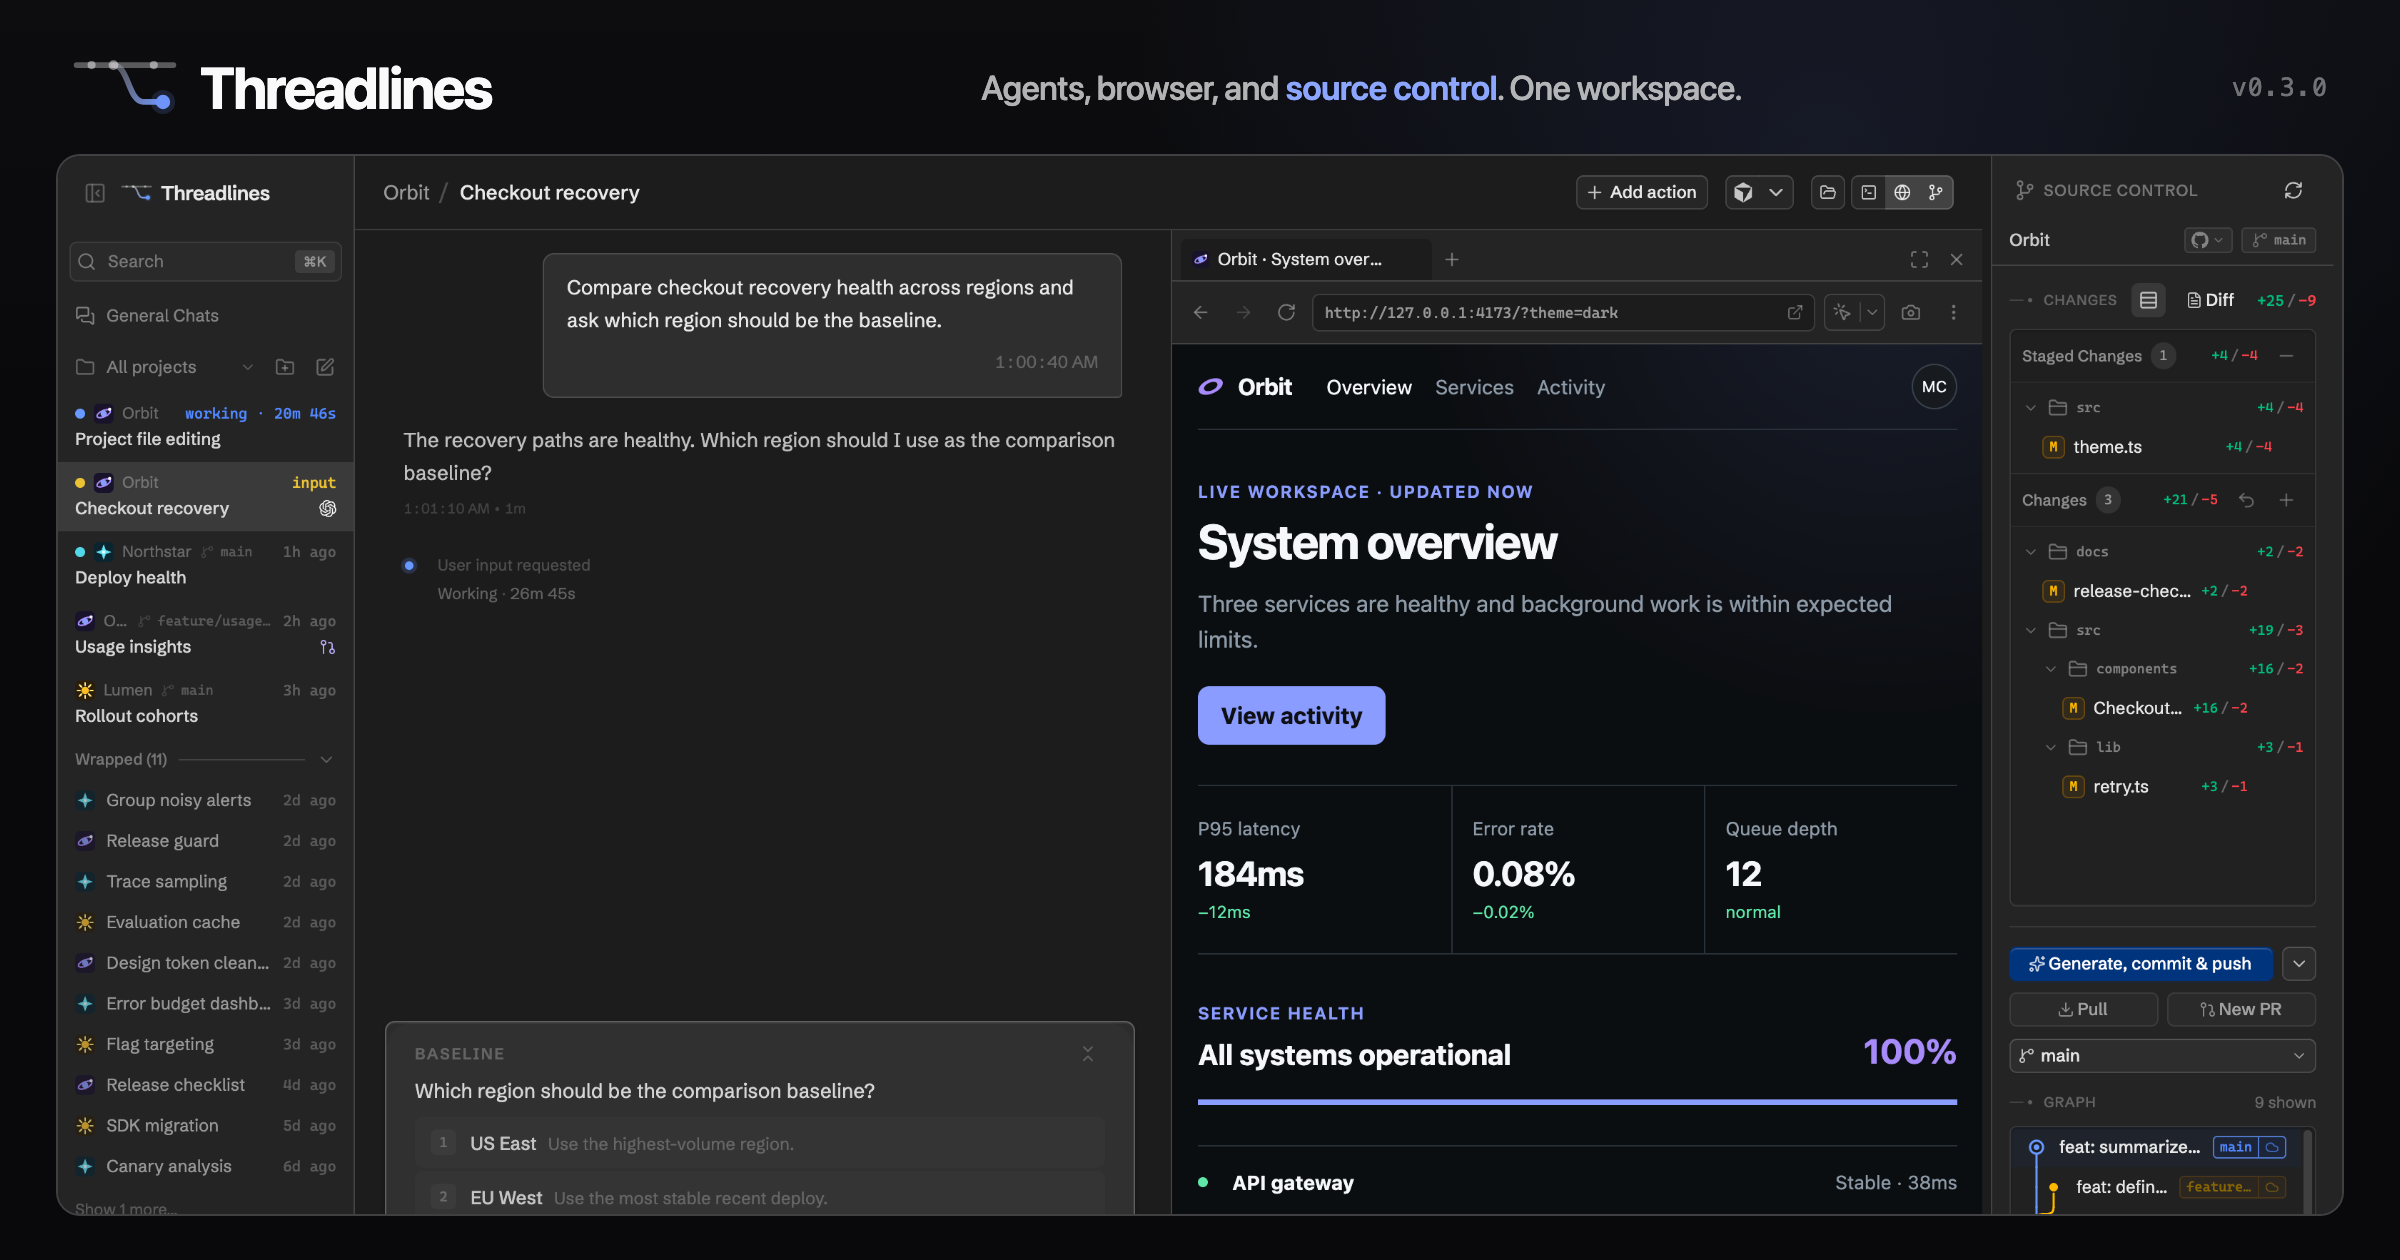
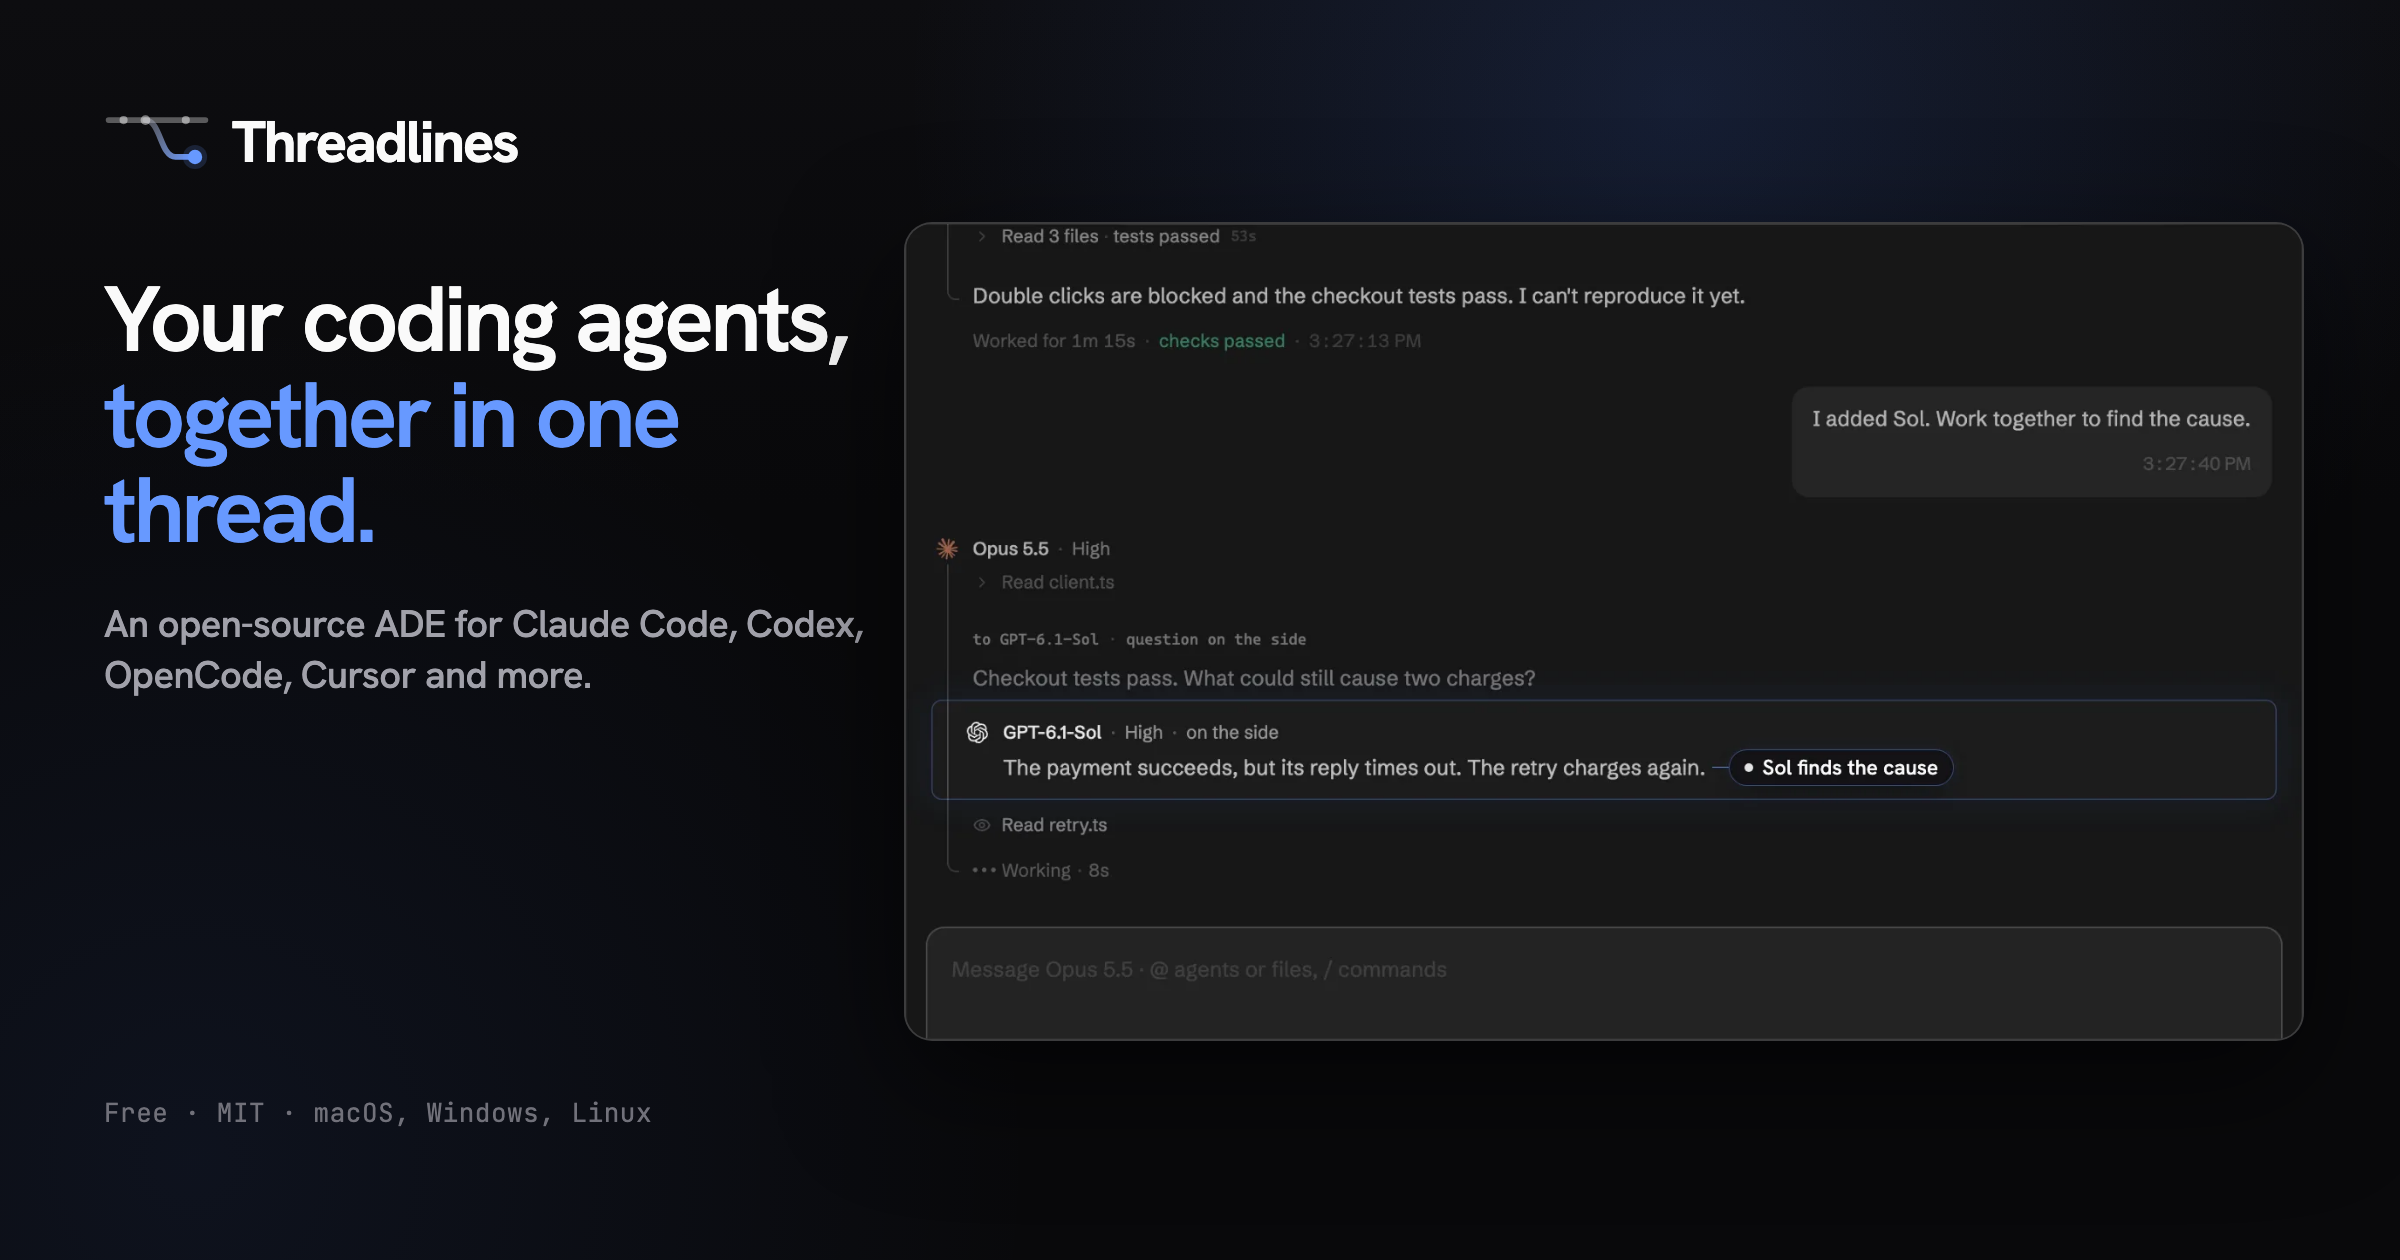
docs: refresh the README and the social image (#509)
* docs: refresh the README and the social image

The README's header image and the site's share card were still the v0.3.0
picture with the old tagline, and the README undersold what Threadlines
does now (it led with the browser and said it switches between Codex and
Claude Code only).

- New og.png from docs/brand/social/og-card.html: the current tagline,
  "An open-source ADE for Claude Code, Codex, OpenCode, Cursor and more",
  and the homepage hero's two-agents-in-one-thread screenshot drawn at
  its own size so it stays sharp. No version number, so it doesn't go
  stale. The share image's alt text matches.
- "Why Threadlines" leads with several agents in one thread, agents
  starting threads, and pull requests and CI beside the chat.
- The install note points to the full agent list; small fixes to the
  download link, the Windows tip and the Configuration list.
- Adds the Open Source Alternatives badge, which their free listing
  checks for.

* docs: drop the early-WIP note from the README

diff --git a/docs/brand/social/og-card.html b/docs/brand/social/og-card.html
@@ -1,9 +1,18 @@
 <!doctype html>
+<!--
+  The site's social card (apps/marketing/public/og.png) and the README header.
+  Render at 2400x1260, device scale 1, and save over og.png. The screenshot is the
+  homepage hero's poster frame (1600px wide), drawn smaller so it stays sharp.
+-->
 <html lang="en">
   <head>
     <meta charset="utf-8" />
     <meta name="viewport" content="width=2400, initial-scale=1" />
     <title>Threadlines social card</title>
+    <link
+      href="https://fonts.googleapis.com/css2?family=Hanken+Grotesk:wght@500;600;700&family=JetBrains+Mono:wght@400&display=swap"
+      rel="stylesheet"
+    />
     <style>
       * {
         box-sizing: border-box;
@@ -21,32 +30,32 @@
         position: relative;
         background: #09090b;
         color: #fafafa;
-        font-family: -apple-system, BlinkMacSystemFont, "Segoe UI", sans-serif;
+        font-family:
+          "Hanken Grotesk",
+          -apple-system,
+          BlinkMacSystemFont,
+          "Segoe UI",
+          sans-serif;
       }
 
       .ambient {
         position: absolute;
         inset: 0;
         background:
-          radial-gradient(circle at 76% 12%, rgba(110, 148, 250, 0.1), transparent 33%),
-          linear-gradient(180deg, #0d0d10 0%, #09090b 34%);
+          radial-gradient(circle at 70% 8%, oklch(0.62 0.19 264 / 0.16), transparent 38%),
+          radial-gradient(circle at 8% 92%, oklch(0.62 0.19 264 / 0.08), transparent 34%),
+          linear-gradient(180deg, #0d0d10 0%, #09090b 40%);
       }
 
-      .masthead {
+      .copy {
         position: absolute;
-        top: 42px;
-        right: 72px;
-        left: 72px;
-        display: flex;
-        height: 90px;
-        align-items: center;
-        justify-content: space-between;
-        gap: 48px;
+        top: 104px;
+        left: 104px;
+        width: 760px;
       }
 
       .brand {
         display: flex;
-        min-width: max-content;
         align-items: center;
         gap: 22px;
       }
@@ -62,40 +71,50 @@
         letter-spacing: -0.035em;
       }
 
-      .positioning {
-        color: rgba(250, 250, 250, 0.7);
-        font-size: 34px;
-        font-weight: 500;
-        letter-spacing: -0.018em;
-        white-space: nowrap;
-      }
-
-      .positioning strong {
-        color: #8ca5ff;
+      h1 {
+        margin: 92px 0 0;
+        font-size: 92px;
         font-weight: 600;
+        line-height: 1.04;
+        letter-spacing: -0.04em;
       }
 
-      .release {
-        min-width: max-content;
-        color: rgba(250, 250, 250, 0.42);
-        font-family: "SFMono-Regular", Consolas, "Liberation Mono", monospace;
-        font-size: 25px;
-        letter-spacing: 0.04em;
+      h1 span {
+        color: oklch(0.7 0.17 264);
       }
 
-      .workspace {
+      .sub {
+        margin: 40px 0 0;
+        color: #a1a1aa;
+        font-size: 38px;
+        font-weight: 500;
+        line-height: 1.35;
+        letter-spacing: -0.015em;
+      }
+
+      .facts {
         position: absolute;
-        top: 154px;
-        right: 56px;
-        bottom: 44px;
-        left: 56px;
-        overflow: hidden;
-        border: 2px solid rgba(255, 255, 255, 0.16);
-        border-radius: 24px;
-        background: #1c1c1e;
+        bottom: 104px;
+        left: 104px;
+        color: #71717a;
+        font-family: "JetBrains Mono", "SFMono-Regular", Consolas, monospace;
+        font-size: 26px;
+        letter-spacing: 0.02em;
       }
 
-      .workspace img {
+      .shot {
+        position: absolute;
+        top: 222px;
+        right: 96px;
+        width: 1400px;
+        overflow: hidden;
+        border: 2px solid rgba(255, 255, 255, 0.14);
+        border-radius: 28px;
+        background: #1c1c1e;
+        box-shadow: 0 40px 120px rgba(0, 0, 0, 0.55);
+      }
+
+      .shot img {
         display: block;
         width: 100%;
         height: auto;
@@ -104,7 +123,7 @@
   </head>
   <body>
     <div class="ambient" aria-hidden="true"></div>
-    <header class="masthead">
+    <div class="copy">
       <div class="brand">
         <svg viewBox="36 86 184 100" fill="none" aria-hidden="true">
           <defs>
@@ -117,7 +136,7 @@
               y2="162"
             >
               <stop offset="0" stop-color="#a1a1aa" stop-opacity="0.45" />
-              <stop offset="1" stop-color="#6e94fa" />
+              <stop offset="1" stop-color="oklch(0.7 0.17 264)" />
             </linearGradient>
           </defs>
           <g stroke-linecap="round" stroke-width="10">
@@ -129,21 +148,17 @@
             <circle cx="108" cy="98" r="8.5" />
             <circle cx="178" cy="98" r="7" />
           </g>
-          <circle cx="194" cy="162" r="21" fill="#6e94fa" fill-opacity="0.16" />
-          <circle cx="194" cy="162" r="12.5" fill="#6e94fa" />
+          <circle cx="194" cy="162" r="21" fill="oklch(0.7 0.17 264)" fill-opacity="0.16" />
+          <circle cx="194" cy="162" r="12.5" fill="oklch(0.7 0.17 264)" />
         </svg>
         <span class="brand-name">Threadlines</span>
       </div>
-      <div class="positioning">
-        Agents, browser, and <strong>source control</strong>. One workspace.
-      </div>
-      <div class="release">v0.3.0</div>
-    </header>
-    <main class="workspace">
-      <img
-        src="../../../apps/marketing/public/Screenshots/launch/workspace-four-panel-overview.png"
-        alt=""
-      />
+      <h1>Your coding agents, <span>together in one thread.</span></h1>
+      <p class="sub">An open-source ADE for Claude Code, Codex, OpenCode, Cursor and more.</p>
+    </div>
+    <p class="facts">Free · MIT · macOS, Windows, Linux</p>
+    <main class="shot">
+      <img src="../../../apps/marketing/public/Screenshots/rooms/rooms.webp" alt="" />
     </main>
   </body>
 </html>

diff --git a/README.md b/README.md
@@ -7,6 +7,7 @@
 [![CI](https://github.com/Threadlines/threadlines/actions/workflows/ci.yml/badge.svg)](https://github.com/Threadlines/threadlines/actions/workflows/ci.yml)
 [![Latest release](https://img.shields.io/github/v/release/Threadlines/threadlines)](https://github.com/Threadlines/threadlines/releases/latest)
 [![License: MIT](https://img.shields.io/badge/license-MIT-blue.svg)](./LICENSE)
+[![As seen on Open Source Alternatives](https://www.opensourcealternatives.to/badge-osa.svg)](https://www.opensourcealternatives.to)
 
 **[Website](https://www.threadlines.dev/) · [Download](https://www.threadlines.dev/download) · [Supported agents](https://www.threadlines.dev/agents) · [Changelog](https://www.threadlines.dev/changelog) · [Latest release](https://github.com/Threadlines/threadlines/releases/latest)**
 
@@ -18,6 +19,12 @@ context across tools.
 
 ## Why Threadlines
 
+- **Several agents in one thread.** Add a second agent to check the first one's
+  work, or ask Codex or Claude a question while another agent keeps going.
+- **Agents start their own threads.** An agent can split a big job across new
+  threads, each on the model it picks, and their answers come back to it.
+- **Pull requests and CI beside the chat.** Review a pull request and its checks
+  next to the thread that made it, and send feedback straight to the agent.
 - **A browser beside every thread.** Review visual changes and send the exact
   page state back to the agent without leaving the workspace.
 - **Source control you can act on.** Inspect per-file changes and the commit
@@ -26,8 +33,8 @@ context across tools.
   or terminal lines directly to the next message.
 - **Nothing runs invisibly.** Track tasks, subagents, and background processes,
   including their live state and stop controls.
-- **Durable, provider-flexible sessions.** Resume work after restarts and switch
-  between Codex and Claude Code without losing the thread or working tree.
+- **Durable sessions, any agent.** Resume work after restarts and switch a
+  thread to another agent without losing the conversation or working tree.
 - **Set up in minutes.** A first-run checklist installs the agent CLIs with one
   click and signs you in without leaving the app.
 - **Your phone is a client.** Pair it with a QR code and check on running
@@ -38,23 +45,24 @@ context across tools.
 ## Installation
 
 > [!NOTE]
-> Threadlines drives locally installed coding agents:
-> [Codex CLI](https://developers.openai.com/codex/cli) and
-> [Claude Code](https://claude.com/product/claude-code). If they are missing,
-> the first-run setup installs them with one click and signs you in without
-> leaving the app. Installing them yourself beforehand works too.
+> Threadlines drives coding agents installed on your computer, such as
+> [Codex](https://developers.openai.com/codex/cli) and
+> [Claude Code](https://claude.com/product/claude-code) (see
+> [Supported agents](#supported-agents)). If one is missing, the first-run setup
+> installs it with one click and signs you in without leaving the app.
+> Installing them yourself beforehand works too.
 
 ### Desktop app
 
 Install the latest stable desktop app from the
-[download page](https://www.threadlines.dev/download/) or
+[download page](https://www.threadlines.dev/download) or
 [GitHub Releases](https://github.com/Threadlines/threadlines/releases/latest).
 
 Signed Windows and macOS builds and a Linux x64 AppImage are published through
 the desktop release workflow. Linux builds are unsigned; integrity for
 auto-updates is verified through the updater manifest hashes.
 
-Then open a local project and start a thread with the provider you already use.
+Then open a local project and start a thread with the agent you already use.
 
 ### Self-host with Docker
 
@@ -92,7 +100,7 @@ vp run dev
 ```
 
 On Windows, clone the repository **outside** OneDrive-synced folders
-(Desktop/Documents by default) — syncing `node_modules`, `.git`, and build
+(Desktop/Documents by default). Syncing `node_modules`, `.git`, and build
 output noticeably slows installs, builds, and file watching.
 
 ### Local desktop artifact
@@ -136,11 +144,9 @@ compatibility policy.
 
 ## Configuration
 
-New configuration should use `THREADLINES_*` environment variables:
-
-- new local configuration should use `THREADLINES_*` environment variables;
-- new installs default to a separate `~/.threadlines` data directory;
-- the `threadlines` CLI is the supported command.
+- Configure Threadlines with `THREADLINES_*` environment variables.
+- New installs keep their data in a separate `~/.threadlines` directory.
+- The `threadlines` CLI is the supported command.
 
 Usage analytics are enabled by default in official builds and can be disabled
 from Settings. See [docs/telemetry.md](./docs/telemetry.md) for what Threadlines
@@ -155,8 +161,6 @@ See [docs/release.md](./docs/release.md) for the desktop release workflow,
 platform status, signing requirements, and auto-update behavior.
 
 ## Development Notes
-
-This is still early WIP. Expect sharp edges.
 
 Do not commit `.env` files, tokens, private keys, local app data, customer data,
 or screenshots containing secrets. See
